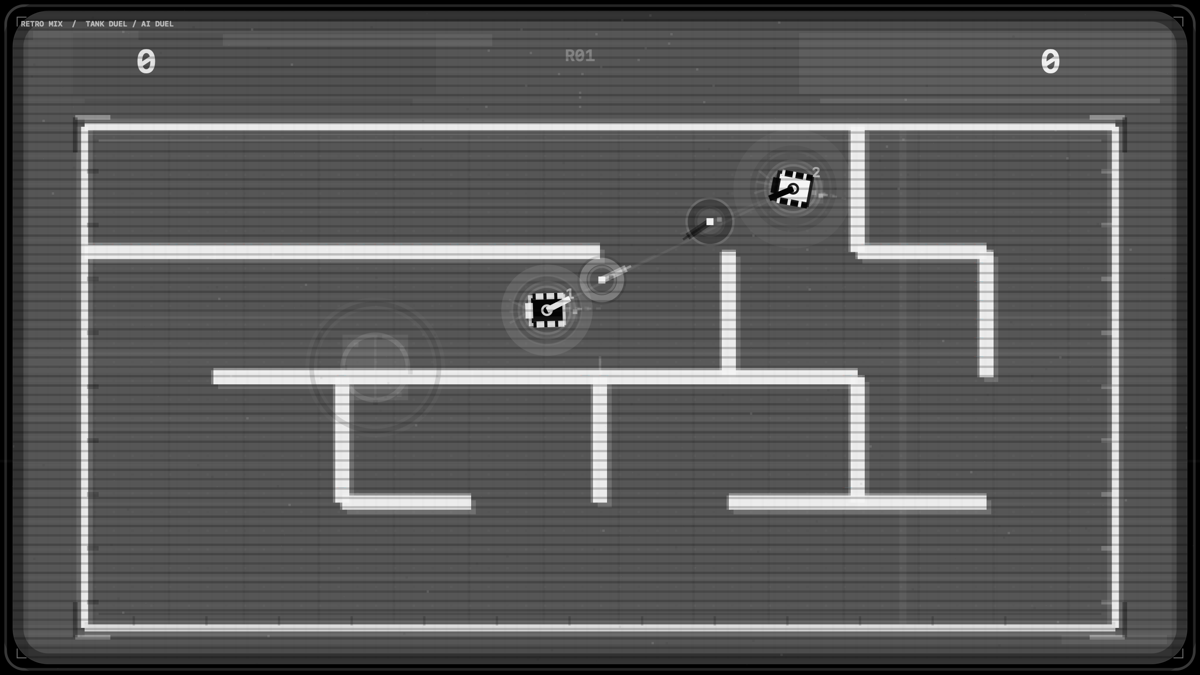
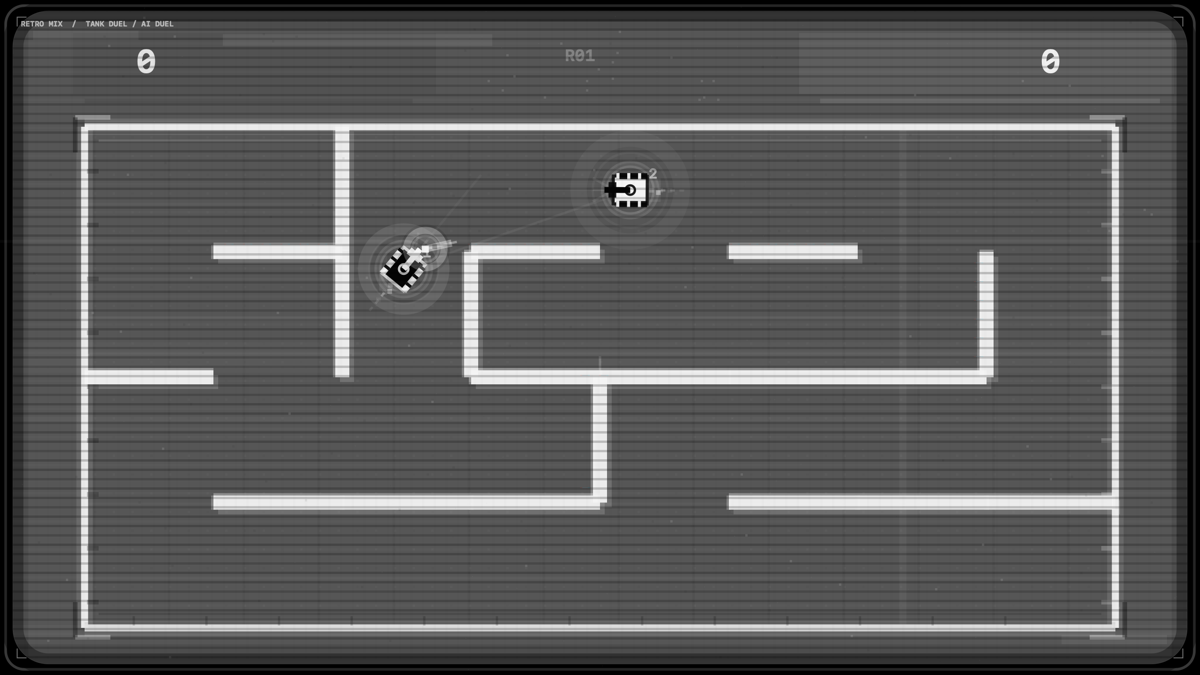
Document fixed-cannon Tank Duel update

diff --git a/RELEASE_NOTES.md b/RELEASE_NOTES.md
@@ -1,14 +1,14 @@
-# Retro Mix Arcade 1.2.3
+# Retro Mix Arcade 1.2.4
 
-Tank Duel now plays more tactically and looks closer to the original arcade game.
+Tank Duel now follows the original game's fixed-cannon behavior.
 
-- The AI tanks seek firing lanes, lead moving targets, and avoid firing through walls.
-- When threatened, a tank can briefly retreat behind cover, then return to attack.
-  Its turret can still fire during the retreat if a clear shot opens.
-- Tank Duel has a darker gray field, bright maze walls, smaller rotating tanks,
-  and a simpler score display inspired by the original game.
-- The randomized maze arenas, shared CRT controls, and game-specific effects
-  remain available.
+- Each cannon is locked to its tank chassis. To aim, the AI stops and rotates
+  the entire tank toward its target.
+- Bullets always leave in the direction the tank faces.
+- The AI resumes steering through the maze after firing and still uses brief
+  cover and evasive moves when threatened.
+- The darker field, bright walls, smaller tanks, CRT effects, and randomized
+  arenas from the previous release remain.
 
 The six AI games, Mixed mode, and existing JMR unlock codes remain available.
 

diff --git a/README.md b/README.md
@@ -30,8 +30,8 @@ Security → Open Anyway** as described in [Apple's instructions](https://suppor
 - Separate game-specific effect controls, including 60 Sprint effects.
 - A preview that follows the currently selected game.
 - Two AI tanks that navigate randomized mazes, use cover briefly when
-  threatened, and seek clear shots in Tank Duel; an AI paddle that predicts
-  the ball in Breakout.
+  threatened, rotate their whole chassis to aim a fixed cannon, and seek clear
+  shots in Tank Duel; an AI paddle that predicts the ball in Breakout.
 - Tank Duel's dark field, bright walls, small rotating tanks, and simple score
   display take cues from the original arcade game.
 - A moving JMR watermark that can be removed with a personal code from the
